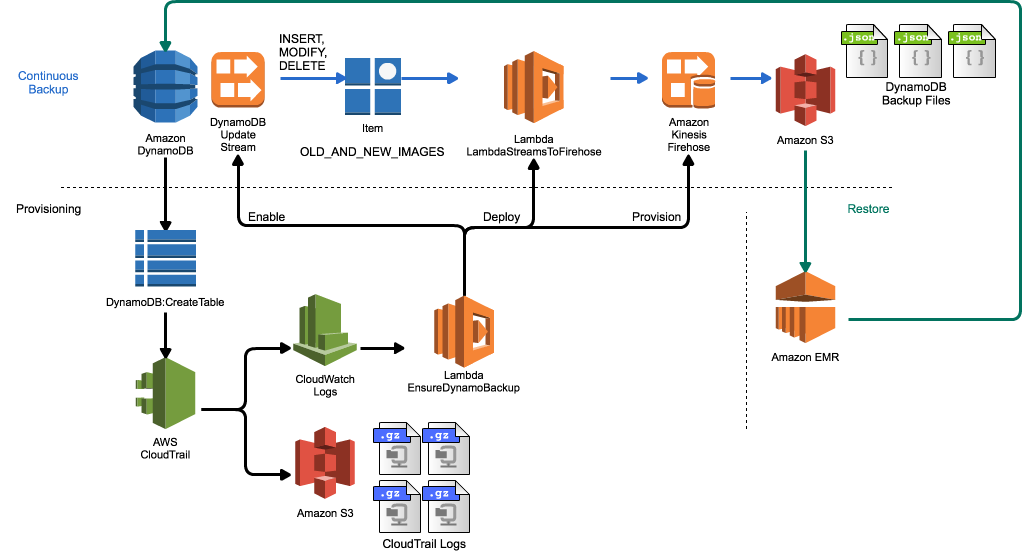
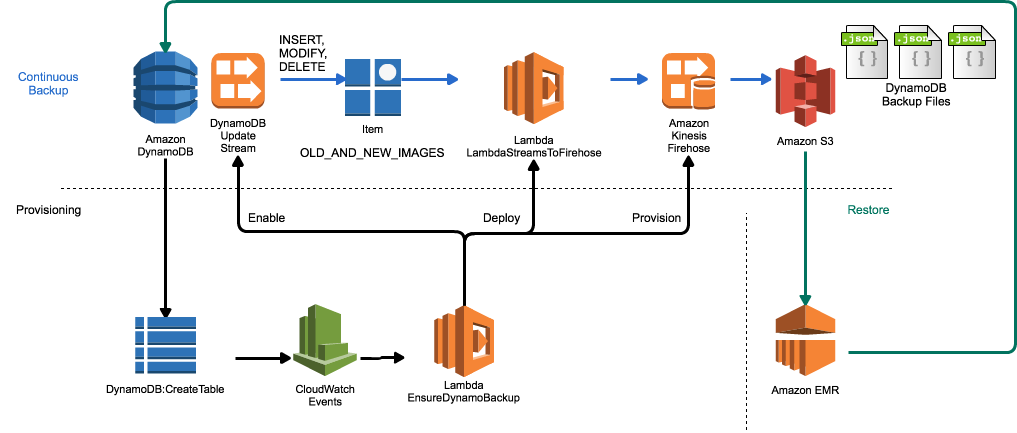
Moved architecture to CloudWatch Events from CloudWatch Logs and CloudTrail

diff --git a/src/deploy.py b/src/deploy.py
@@ -10,60 +10,51 @@ import botocore
 import argparse
 import shortuuid
 import hjson
-
-cwl_client = None
-ct_client = None
+ 
+cwe_client = None
 lambda_client = None
 
 LAMBDA_FUNCTION_NAME = 'EnsureDynamoBackup'
-
-def get_log_group_name(for_trail):
-    return "CloudTrail/" + for_trail
+DDB_CREATE_DELETE_RULE_NAME = 'DynamoDBCreateDelete'
 
 
-def setup_cwl(region, use_trail):
+def configure_cwe(region, cwe_role_arn):
     # connect to CloudWatch Logs
-    global cwl_client
-    cwl_client = boto3.client('logs', region_name=region)
+    global cwe_client
+    cwe_client = boto3.client('events', region_name=region)
     
-    log_group_name = get_log_group_name(use_trail)
-    
-    # setup the cloudwatch log group for CloudTrail
-    created = False
+    # determine if there's an existing rule in place
+    rule_query_response = {}
     try:
-        cwl_client.create_log_group(logGroupName=log_group_name)
-        
-        created = True
+        rule_query_response = cwe_client.describe_rule(
+                Name=DDB_CREATE_DELETE_RULE_NAME
+        )
     except botocore.exceptions.ClientError as e:
-        if e.response['Error']['Code'] == 'ResourceAlreadyExistsException':
+        code = e.response['Error']['Code']
+        if code == 'ResourceNotFoundException':
             pass
-    
-    response = cwl_client.describe_log_groups(logGroupNamePrefix=log_group_name)
-    
-    cwl_group_arn = response['logGroups'][0]['arn']    
-    
-    if created:
-        print "Created new CloudWatch Log Group %s" % (cwl_group_arn)
+        else:
+            raise e
         
-    return cwl_group_arn
-
-
-def setup_trail(region, use_trail, cwl_group_arn, cw_logs_role_arn):
-    # connect to cloudtrail
-    global ct_client
-    ct_client = boto3.client('cloudtrail', region_name=region)
-
-    # forward the provided CloudTrail to the newly created log group
-    ct_client.update_trail(
-        Name=use_trail,
-        CloudWatchLogsLogGroupArn=cwl_group_arn,
-        CloudWatchLogsRoleArn=cw_logs_role_arn
-    )
-    
-    print "Linked CloudTrail %s to CloudWatch Logs Group %s" % (use_trail, cwl_group_arn)
+    if 'Arn' in rule_query_response:
+        print "Resolved existing DynamoDB CloudWatch Event Subscriber Rule %s" % (rule_query_response['Arn']);
+        
+        return rule_query_response['Arn']
+    else:
+        # create a cloudwatch events rule
+        rule_response = cwe_client.put_rule(
+            Name=DDB_CREATE_DELETE_RULE_NAME,
+            EventPattern='{"detail-type":["AWS API Call via CloudTrail"],"detail":{"eventSource":["dynamodb.amazonaws.com"],"eventName":["DeleteTable","CreateTable"]}}',
+            State='ENABLED',
+            Description='CloudWatch Events Rule to React to DynamoDB Create and DeleteTable events',
+            RoleArn=cwe_role_arn
+        )
+            
+        print "Created new CloudWatch Events Rule %s" % (rule_response["RuleArn"])
+        return rule_response["RuleArn"]
         
 
-def deploy_lambda_function(region, lambda_role_arn, cwl_group_arn, force):
+def deploy_lambda_function(region, lambda_role_arn, cwe_rule_arn, force):
     # connect to lambda
     global lambda_client
     lambda_client = boto3.client('lambda', region_name=region)
@@ -104,7 +95,7 @@ def deploy_lambda_function(region, lambda_role_arn, cwl_group_arn, force):
                 # store the arn with the version number stripped off
                 function_arn = ":".join(function_arn.split(":")[:7])
                 
-                print "Redeployed DynamoDB Ensure Backup Module to %s" % (function_arn)
+                print "Redeployed DynamoDB Ensure Backup Module to %s" % (response['FunctionArn'])
             else:
                 response = lambda_client.get_function(
                                 FunctionName=LAMBDA_FUNCTION_NAME
@@ -115,49 +106,50 @@ def deploy_lambda_function(region, lambda_role_arn, cwl_group_arn, force):
         else:
             raise e
         
-    # add a permission for CW Logs to invoke this function
+    # add a permission for CW Events to invoke this function
     response = lambda_client.add_permission(
         FunctionName=LAMBDA_FUNCTION_NAME,
         StatementId=shortuuid.uuid(),
         Action='lambda:InvokeFunction',
-        Principal='logs.%s.amazonaws.com' % (region),
-        SourceArn=cwl_group_arn
+        Principal='events.amazonaws.com',
+        SourceArn=cwe_rule_arn
     )
     
-    print "Granted permission to execute backup functions to CloudWatch Logging"
+    print "Granted permission to execute Lambda function to CloudWatchEvents"
     
     return function_arn
     
 
-def create_lambda_cwl_subscription(lambda_arn, cw_logs_role_arn, use_trail):
-    # create a log group filter for the subscription that only delivers dynamoDB events
-    log_group_name = get_log_group_name(use_trail);
-
-    print lambda_arn
-    
-    cwl_client.put_subscription_filter(
-        logGroupName=log_group_name,
-        filterName='DynamoDB Events Only',
-        filterPattern='{ $.eventSource = "dynamodb.amazonaws.com" && ($.eventName = "CreateTable" || $.eventName = "DeleteTable") }',
-        destinationArn=lambda_arn
+def create_lambda_cwl_target(lambda_arn):
+    existing_targets = cwe_client.list_targets_by_rule(
+        Rule=DDB_CREATE_DELETE_RULE_NAME
     )
     
-    print "Created Subscription Filter for DynamoDB only events on CloudTrail Log Stream"
+    if 'Targets' not in existing_targets or len(existing_targets['Targets']) == 0:
+        cwe_client.put_targets(
+            Rule=DDB_CREATE_DELETE_RULE_NAME,
+            Targets=[
+                {
+                    'Id': shortuuid.uuid(),
+                    'Arn': lambda_arn
+                }
+            ]
+        )
+        
+        print "Created CloudWatchEvents Target for Rule %s" % (DDB_CREATE_DELETE_RULE_NAME)
+    else:
+        print "Existing CloudWatchEvents Rule has correct Target Function"
 
 
-
-def configure_ct(region, cw_logs_role_arn, lambda_role_arn, use_trail, redeploy_lambda):
-    # setup a CloudWatch Logs Group
-    cwl_group_arn = setup_cwl(region, use_trail)
-    
-    # configure CloudTrail with forwarding the trail to the CWLogGroup
-    setup_trail(region, use_trail, cwl_group_arn, cw_logs_role_arn)
+def configure_ct(region, cwe_role_arn, lambda_role_arn, redeploy_lambda):
+    # setup a CloudWatchEvents Rule
+    cwe_rule_arn = configure_cwe(region, cwe_role_arn)
     
     # deploy the lambda function
-    lambda_arn = deploy_lambda_function(region, lambda_role_arn, cwl_group_arn, redeploy_lambda)
+    lambda_arn = deploy_lambda_function(region, lambda_role_arn, cwe_rule_arn, redeploy_lambda)
     
-    # create a lambda subscription to the cwlogs group with a filter for DDB CreateTable events
-    create_lambda_cwl_subscription(lambda_arn, cw_logs_role_arn, use_trail)
+    # create a target for our CloudWatch Events Rule that points to the Lambda function
+    create_lambda_cwl_target(lambda_arn)
 
 
 
@@ -171,4 +163,4 @@ if __name__ == "__main__":
     config = hjson.load(open(args.config_file, 'r'))
     
     # invoke the cloudtrail configuration module
-    configure_ct(config['region'], config['cloudTrailRoleArn'], config['lambdaExecRoleArn'], config['cloudTrailName'], args.redeploy)
+    configure_ct(config['region'], config['cloudWatchRoleArn'], config['lambdaExecRoleArn'], args.redeploy)

diff --git a/src/index.py b/src/index.py
@@ -7,9 +7,6 @@ import sys
 # add the lib directory to the path
 sys.path.append('lib')
 
-import json
-import base64
-import zlib
 import dynamo_continuous_backup as backup
 
 config = None
@@ -17,39 +14,24 @@ config = None
 def event_handler(event, context):
     # initialise the ddb continuous backup manager
     backup.init(None)
-
+    
     # handle unknown event types
-    if event["awslogs"]["data"] == None:
+    if 'detail' not in event or 'requestParameters' not in event["detail"] or event['detail']['eventSource'] != 'dynamodb.amazonaws.com':
         print "Unknown input event type"
+        print event
     else:
-        # extract CloudTrail Event
-        decoded = base64.decodestring(event["awslogs"]["data"])
-        # decompress the data shipped as base64 gzip
-        decompressed = zlib.decompress(decoded, 15 + 32)
-        cloudtrail_payload = json.loads(decompressed)
-        eventCount = 0
+        if event['detail']['eventName'] == "CreateTable":
+            # resolve the table
+            dynamo_table_name = event["detail"]["requestParameters"]["tableName"]
 
-        # may receive multiple CloudTrail events
-        for logEvent in cloudtrail_payload["logEvents"]:
-            eventCount += 1
-            event = json.loads(logEvent["message"])
-
-            if event["eventSource"] == "dynamodb.amazonaws.com" and event['eventName'] == "CreateTable" and (
-                    'errorCode' not in event or event['errorCode'] == None):
-                # resolve the table
-                dynamo_table_name = event["requestParameters"]["tableName"]
-
-                # configure the table for continuous backup
-                backup.configure_table(dynamo_table_name)
-            elif event["eventSource"] == "dynamodb.amazonaws.com" and event['eventName'] == "DeleteTable" and (
-                    'errorCode' not in event or event['errorCode'] == None):
-                # delete the firehose delivery stream for this table
-                dynamo_table_name = event["requestParameters"]["tableName"]
-                
-                # deprovision table for continuous backup
-                backup.deprovision_table(dynamo_table_name)
-            else:
-                print "Unknown Event %s:%s" % (event["eventSource"], event['eventName'])
-                print event
-
-        print "Processed %s Events" % (eventCount)
+            # configure the table for continuous backup
+            backup.configure_table(dynamo_table_name)
+        elif event['detail']['eventName'] == "DeleteTable":
+            # delete the firehose delivery stream for this table
+            dynamo_table_name = event["detail"]["requestParameters"]["tableName"]
+            
+            # deprovision table for continuous backup
+            backup.deprovision_table(dynamo_table_name)
+        else:
+            print "Unknown Event %s" % (event['detail']['eventName'])
+            print event

diff --git a/README.md b/README.md
@@ -8,7 +8,7 @@ DynamoDB can be [backed up using Amazon Data Pipeline](http://docs.aws.amazon.co
 
 For some customers, this full backup and restore model works extremely well. Other customers need the ability to recover data at the item level, with a frequency that is much lower than a full periodic backup and restore. For example, they may want to recover changes made to a single item within just a few minutes.
 
-This module gives you the ability to configure continuous, streaming backup of all data in DynamoDB Tables to Amazon S3 via [AWS Lambda Streams to Firehose](https://github.com/awslabs/lambda-streams-to-firehose), which will propagate all changes to a DynamoDB Table to Amazon S3 in as little as 60 seconds. This module completely automates the provisioning process, to ensure that all Tables created in an Account over time are correctly configured for continuous backup. It does this by operating against events from an [Amazon CloudTrail](https://aws.amazon.com/cloudtrail) you provide. `DynamoDB::CreateTable` and `DeleteTable ` events are forwarded to [Amazon CloudWatch Log Streams](http://docs.aws.amazon.com/AmazonCloudWatch/latest/logs/WhatIsCloudWatchLogs.html), and then processed by an AWS Lambda function that automates the configuration of continuous backup. This includes:
+This module gives you the ability to configure continuous, streaming backup of all data in DynamoDB Tables to Amazon S3 via [AWS Lambda Streams to Firehose](https://github.com/awslabs/lambda-streams-to-firehose), which will propagate all changes to a DynamoDB Table to Amazon S3 in as little as 60 seconds. This module completely automates the provisioning process, to ensure that all Tables created in an Account over time are correctly configured for continuous backup. It does this by operating the API calls in your Account.  [Amazon CloudWatch Events](http://docs.aws.amazon.com/AmazonCloudWatch/latest/events/WhatIsCloudWatchEvents.html) subscribes to `DynamoDB::CreateTable` and `DeleteTable ` events and then forwards them to an AWS Lambda function that automates the configuration of continuous backup. This includes:
 
 * Configuring [DynamoDB Update Streams](http://docs.aws.amazon.com/amazondynamodb/latest/developerguide/Streams.html) for the Table that's just been created
 * Creating an [Amazon Kinesis Firehose Delivery Stream](http://docs.aws.amazon.com/firehose/latest/dev/basic-create.html) for the required destination of the backups on Amazon S3
@@ -28,24 +28,19 @@ This solution adds AWS service components to achieve continuous backup of your D
 * Adding an update stream to the DynamoDB table. This costs $.02/100,000 reads after the first 2.5M reads per update stream
 * Adding a Kinesis Firehose Delivery Stream per table. This costs $.035/GB ingested to the delivery stream
 * Backup data storage on S3. This costs the customer ~ $.03/GB
-* CloudTrail forwarding to CloudWatch Logs. This costs $.50/GB but as we only forward CreateTable and DeleteTable events, the cost should be minimal
+* CloudWatch Events. This costs $1.0/million events.
 * AWS Lambda invocations to forward DynamoDB Update Stream data to Kinesis Firehose. This costs $.20/million invocations, after the first million.
 
 We believe that these costs are relatively low, but you should assess the cost implications to running this solution in your account, especially on tables with a very large number of write IOPS.
 
 # Getting Started
 
-## Configure Amazon CloudTrail
-
-Amazon CloudTrail is a service that provides logging of all API activity in an account to Amazon S3. You can configure it to run per-region, or to capture all acctivity on your account globally, and forward to the S3 bucket of your choice. In order to deploy this module, you must [configure Amazon CloudTrail](http://docs.aws.amazon.com/awscloudtrail/latest/userguide/cloudtrail-create-and-update-a-trail.html), and then provide the name of the configured trail in the configuration file.
-
 ## Create the configuration 
 
 To get started with this function, simply clone the project, and then create a configuration file. This module uses [hjson](https://hjson.org) to make the configuration easy to maintain and read over time, and there's an example file in [config.hjson](src/config.hjson). You may need to work with your AWS Administrator to setup some of the IAM Roles with the correct permissions. You will only need one configuration for **all** tables in your account, and the following items must be configured:
 
 * `region` - the AWS Region where you want the function deployed
-* `cloudTrailName` - the name of the CloudTrail to use for API events. This CloudTrail should only include DynamoDB events for the `region` specified
-* `cloudTrailRoleArn` - IAM Role ARN which CloudTrail will use to write to S3 and CloudWatch Logs
+* `cloudWatchRoleArn` - IAM Role ARN which CloudWatch Events will use to invoke your Lambda function
 * `firehoseDeliveryBucket` - The S3 bucket where DynamoDB backup data should be stored
 * `firehoseDeliveryPrefix` - The prefix on S3 where DynamoDB backup data should be stored. The table name will be added automatically to this prefix, as will the date and time of the backup file
 * `firehoseDeliveryRoleArn` - the ARN of the IAM role that Kinesis Firehose will use to write to S3
@@ -78,17 +73,17 @@ Now that the function is built, we need to prepare your account and deploy the L
 
 We will:
 
-* Begin forwarding the provided CloudTrail to Amazon CloudWatch Logs
+* Subscribe CloudWatch Events to DynamoDB CreateTable and DeleteTable API Calls
 * Deploy the Lambda function
-* Subscribe the Lambda function to the CloudWatch Logs Stream for DynamoDB CreateTable and DeleteTable events
-* Enable CloudWatch Logs to invoke the Lambda function
+* Subscribe the Lambda function to the CloudWatch Events Subscription
+* Enable CloudWatch Events to invoke the Lambda function
  
 ## Verify
 
 Once deployed, you can verify the correct operation of this function by:
 
-* Ensuring that the provided CloudTrail is forwarding events to Amazon CloudWatch Logs
-* This CloudWatch Logs Stream is the trigger for the `EnsureDynamoBackup` Lambda function
+* Ensuring that there is a CloudWatch Events Rule for `dynamodb.amazonaws.com` for events `CreateTable` and `DeleteTable`
+* This CloudWatch Events Rule has a target of the `EnsureDynamoBackup` Lambda function
 * Create a simple test DynamoDB table, and observe the CloudWatch Logs output from `EnsureDynamoBackup` indicating that it has provisioned the continuous backup. For example:
 
 ```
@@ -109,7 +104,7 @@ END RequestId: 0afc60f9-7a6b-11e6-a7ee-c571d294a8c0
 REPORT RequestId: 0afc60f9-7a6b-11e6-a7ee-c571d294a8c0 Duration: 3786.87 ms Billed Duration: 3800 ms Memory Size: 128 MB Max Memory Used: 51 MB
 ```
 
-Please note that CloudTrail => CloudWatch Logs propagation can take up to __15 minutes__
+Please note that API Calls => CloudWatch Events => AWS Lambda propagation can take several minutes.
 
 ## Activating continuous backup for existing tables
 
@@ -217,39 +212,13 @@ This module does not provide any direct function for performing an update to an 
 
 This module requires 3 roles in order to deliver data between CloudTrail, CloudWatch and Amazon Kinesis on your behalf. The following role policies are required, and each minimum set of permissions is shown.
 
-##	cloudTrailRoleArn
+##	cloudWatchRoleArn
 
-IAM Role ARN which CloudTrail will use to write to Amazon S3 and CloudWatch Logs. This must be supllied to the API call that is made to connect your CloudTrail to Amazon CloudWatch Logs.
+IAM Role ARN which CloudWatch Events uses to invoke your AWS Lambda Function.
 
 Trust Relationship: `cloudtrail.amazonaws.com`
 
-```
-{
-    "Version": "2012-10-17",
-    "Statement": [
-        {
-            "Sid": "AWSCloudTrailCreateLogStream20141101",
-            "Effect": "Allow",
-            "Action": [
-                "logs:CreateLogStream"
-            ],
-            "Resource": [
-                "arn:aws:logs:eu-west-1:887210671223:log-group:CloudTrail/*:log-stream:887210671223_CloudTrail_eu-west-1*"
-            ]
-        },
-        {
-            "Sid": "AWSCloudTrailPutLogEvents20141101",
-            "Effect": "Allow",
-            "Action": [
-                "logs:PutLogEvents"
-            ],
-            "Resource": [
-                "arn:aws:logs:eu-west-1:887210671223:log-group:CloudTrail/*:log-stream:887210671223_CloudTrail_eu-west-1*"
-            ]
-        }
-    ]
-}
-```
+Predefined Policy: `CloudWatchEventsInvocationAccess`
 
 ## firehoseDeliveryRoleArn
 
